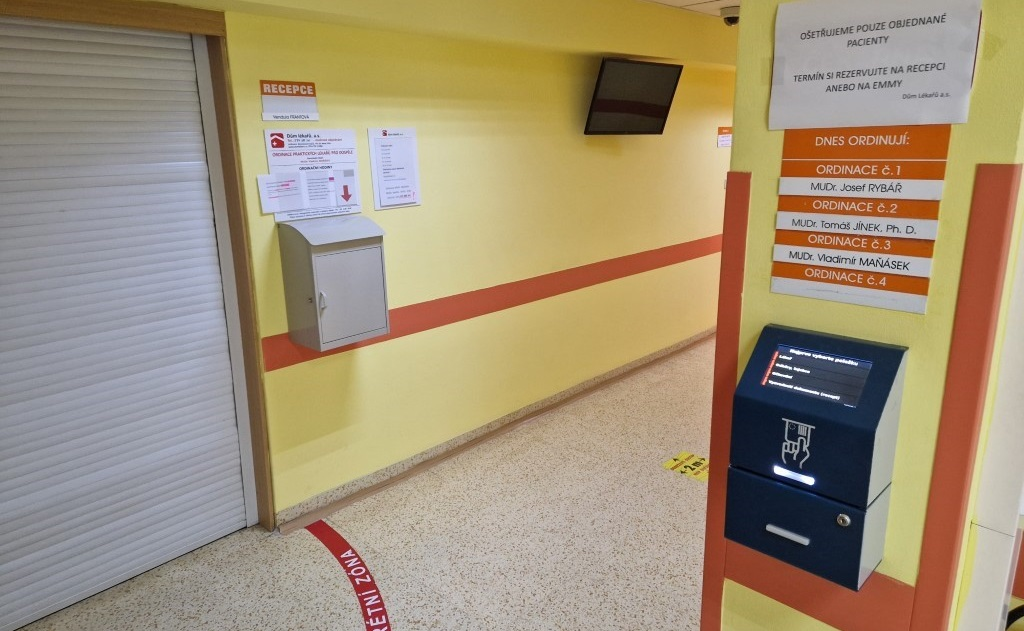
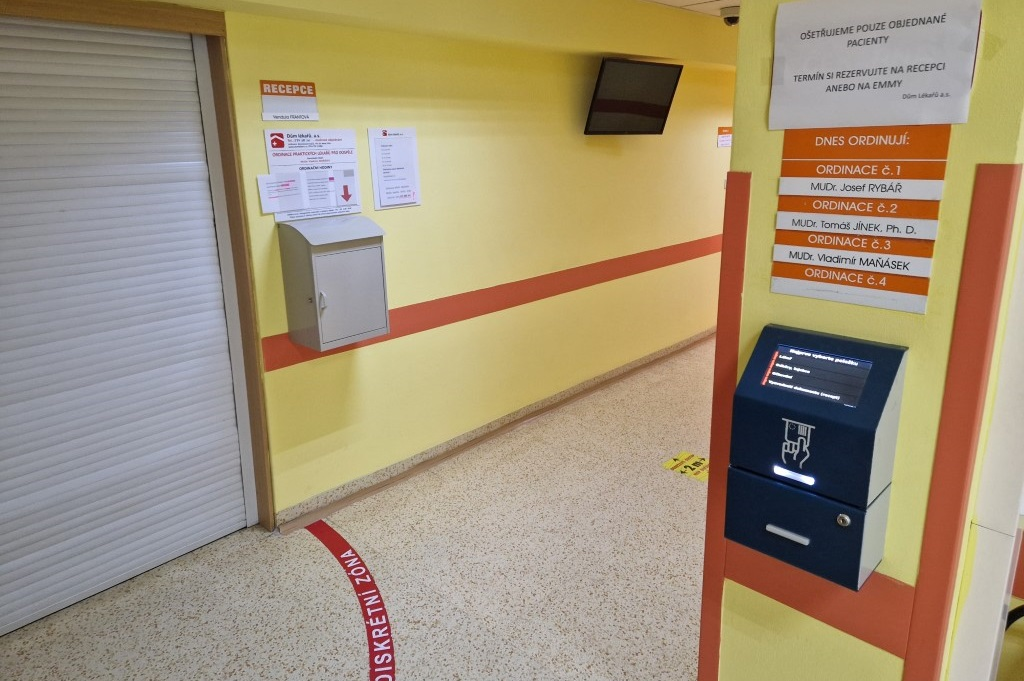
Add new sections, remove recepční

diff --git a/poskytovana-pece.html b/poskytovana-pece.html
@@ -79,6 +79,15 @@
 								Chirurgická a převazová péče
 							</div>
 						</div>
+						<div class="tab" onclick="openTab(event, 'Koureni', true)">
+							<div class="service-list-icon-container"> <img
+									class="service-feature-icon" alt
+									src="assets/img/koureni.svg">
+							</div>
+							<div class="service-descriptions">
+								Intervence kouření
+							</div>
+						</div>
 						<div class="tab" onclick="openTab(event, 'Infuze', true)">
 							<div class="service-list-icon-container"> <img
 									class="service-feature-icon"
@@ -540,6 +549,12 @@
 						<p>Převazy jsou prováděny zkušenou chirurgickou sestrou po objednání.</p>
 						<p>Ostatní výkony jsou prováděny po domluvě s lékařem. Registrovaným pacientům poskytujeme základní konzultaci k operacím včetně možného anesteziologické stanoviska.</p>
 						<img class="poskytovana-pece-img" src="assets/img/prevazova-pece.jpg" alt="rovádíme běžné převazy">
+					</div>
+
+					<div class="tabcontent" id="Koureni">
+						<p class="bold">Kouření je jedním z nejrozšířenějších návyků, které negativně ovlivňují lidské zdraví.</p>
+						<p>Naše ambulance nabízí cílené konzultace námi registrovaných kuřáků anebo krátké intervence v rámci preventivních prohlídek. Většina kuřáku je závislých na tabáku (nikotinu) a účinná léčba existuje. Nikotinová závislost je nemoc! Intervence zahrnuje vstupní pohovor s analýzou způsobu a délky kouření. Součástí analýzy a sledování stavu kuřáku je monitorace oxidu uhelnatého ve vydechovaném vzduchu speciálním přístrojem. Pokud máte odhodlání a jste pně rozhodnuti přestat kouřit jsme tu pro Vás v první linii. K léčbě je možné využít volného prodeje nikotinu anebo lékařem předepsaných léků. Zdravotní pojišťovny Vám nabízejí finanční příspěvky pro tuto léčbu. </p>
+						<img class="poskytovana-pece-img" src="assets/img/nekurte.png" alt="rovádíme běžné převazy">
 					</div>
 
 					<div class="tabcontent" id="Infuze">

diff --git a/aktuality.html b/aktuality.html
@@ -108,7 +108,8 @@
 							</h2>
 							<div
 								class="poskytujeme-standardn-lebn">
-								Upozornění na nové telefonní číslo <b>597 089 341</b> do naší ambulance! Více informací naleznete <a class="white" href="./index.html#kontakt">zde</a></div>
+								Rušíme konstantní provoz recepce. Otevřena denně od 6-8.hod. Recepce neslouží k vyřízení požadavku na počkání. Požadavky o recepty či lékařské zprávy předejte do připravené schránky. Požadavky řešíme průběžně. Pomůžete nám, pokud nás budete kontaktovat přes aplikaci Emmy anebo telefonicky.
+								Kontakty naleznete <a class="white" href="./index.html#kontakt">zde</a></div>
 						</div>
 					</div>
 				</div>

diff --git a/index.html b/index.html
@@ -149,7 +149,7 @@
                             <div class="info">info</div>
                         </div>
                         <h4>Informace pro nové pacienty</h4>
-                        <p>O stavu registrace nových pacientů se prosím informujte osobně na recepci naší ambulance.
+                        <p>O stavu registrace nových pacientů se prosím informujte přes aplikaci Emmy anebo na recepci.
                             <br />
                             Děkujeme za pochopení. 💕</p>
                         <h6>Kdo se může stát naším pacientem?</h6>
